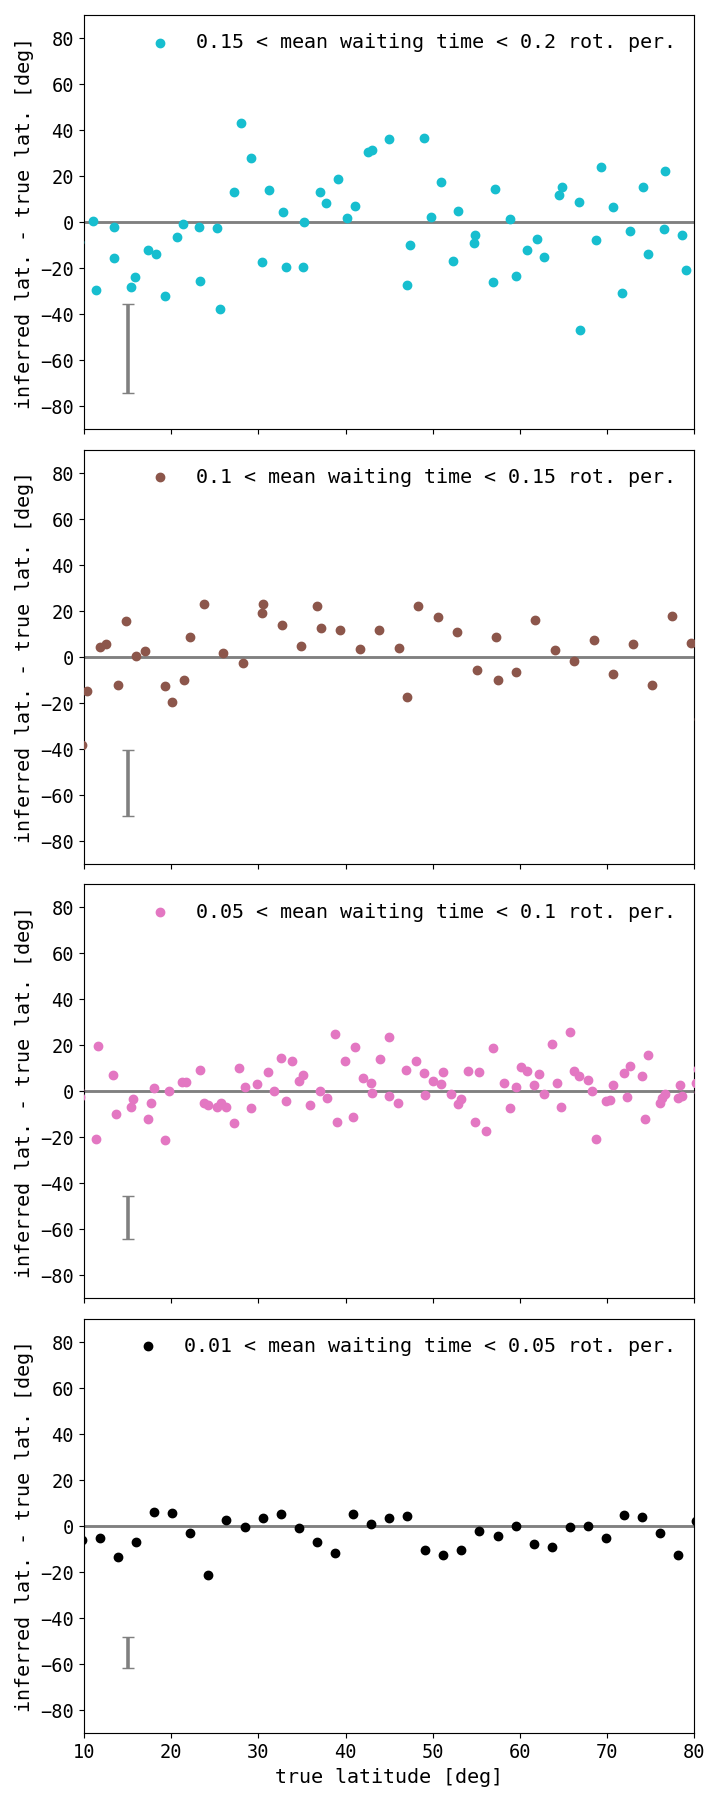
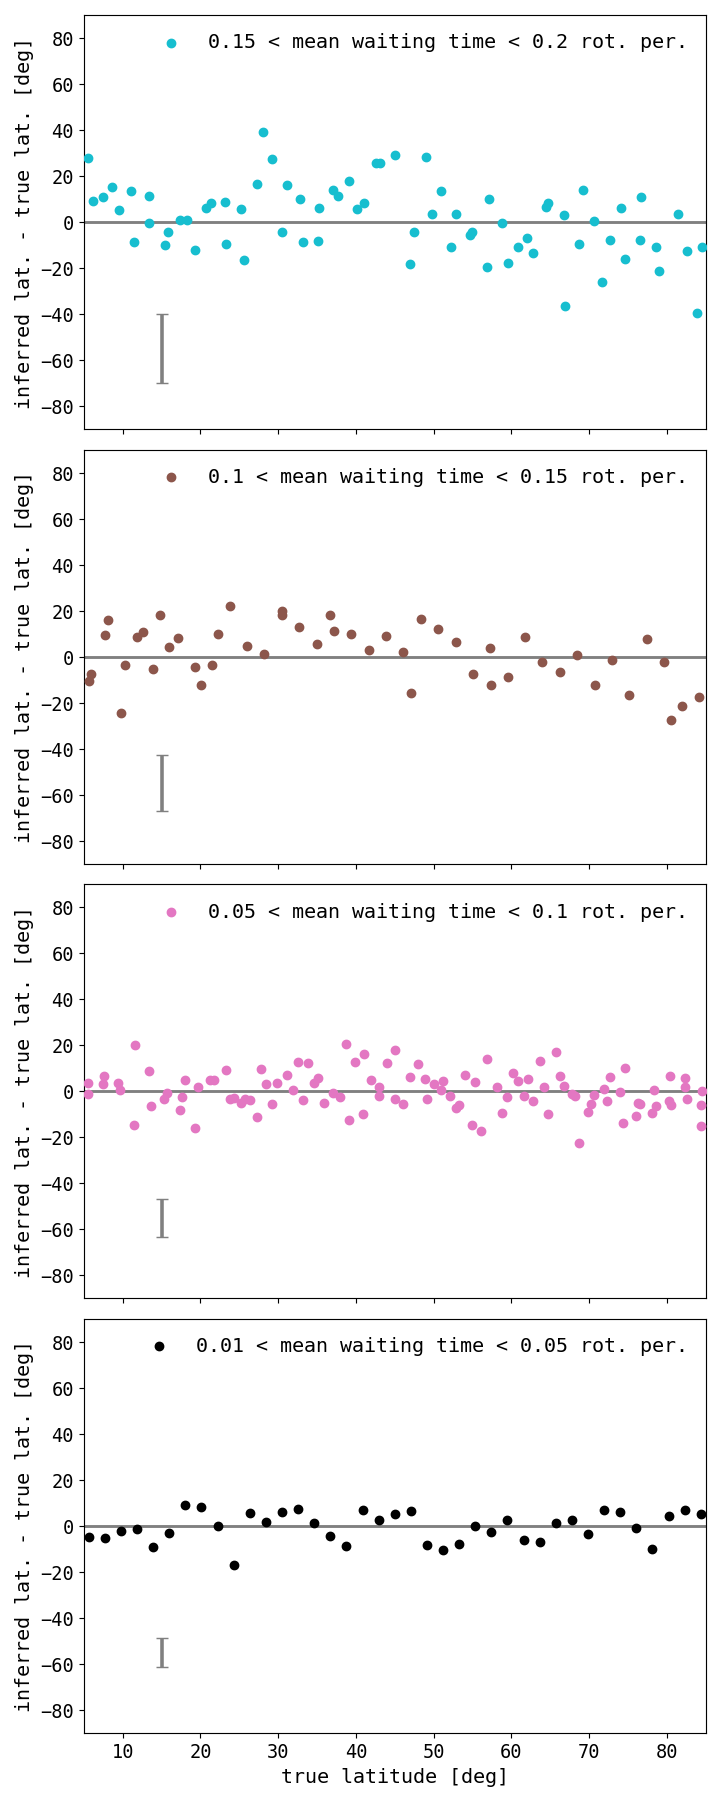
updated figures and Table 2

diff --git a/results/fit_parameters.tex b/results/fit_parameters.tex
@@ -2,10 +2,10 @@
 \hline
        & 1 FR, bi-hem. & 1-3 FR, bi-hem. & 3-5 FR, bi-hem. & 1-3 FR, mono-hem. & 3-5 FR, mono-hem. \\
 \hline
- $a_1$ &          $-1858$ &            $-2893$ &           $-16388$ &              $-6451$ &             $-15259$ \\
- $a_2$ &           $1668$ &             $3634$ &            $15398$ &               $5139$ &              $10003$ \\
- $b_1$ &             $75$ &            $-4205$ &            $-9536$ &              $-2664$ &               $4407$ \\
- $b_2$ &          $-1597$ &            $-2661$ &           $-11649$ &              $-3862$ &              $-8656$ \\
-   $c$ &             $81$ &               $45$ &              $-77$ &                 $29$ &                $-26$ \\
+ $a_1$ &   $-1922 \pm 64$ &    $-4258 \pm 168$ &   $-16200 \pm 736$ &      $-6287 \pm 196$ &     $-13523 \pm 311$ \\
+ $a_2$ &    $1606 \pm 20$ &      $3411 \pm 60$ &     $8536 \pm 269$ &        $4222 \pm 62$ &       $7356 \pm 111$ \\
+ $b_1$ &     $577 \pm 95$ &      $390 \pm 325$ &     $9997 \pm 922$ &        $911 \pm 327$ &       $9425 \pm 456$ \\
+ $b_2$ &   $-1623 \pm 25$ &     $-3023 \pm 80$ &    $-7674 \pm 273$ &       $-3564 \pm 73$ &      $-6957 \pm 121$ \\
+   $c$ &       $84 \pm 1$ &         $65 \pm 2$ &         $16 \pm 3$ &           $47 \pm 1$ &           $14 \pm 1$ \\
 \hline
 \end{tabular}

diff --git a/13_TABLE2_fit_model_to_simulation_data.py b/13_TABLE2_fit_model_to_simulation_data.py
@@ -94,10 +94,8 @@ if __name__ == "__main__":
         x = np.array([x1, x2])
         
         # x-errors guessed
-        # error on mean is 10% / number of spots
-        # error on std is 250% / sqrt(number of spots * number of hemispheres)
-        sx = np.array([x1 / 10. / dicspots[nspots],
-                       2.5 * x2 / np.sqrt(dicspots[nspots] * dicthem[hem])])
+        # error on mean and std is numerically small
+        sx = np.array([1e-7, 1e-7])
         
         # y-error same as in binning in script 12_
         sy = np.full_like(y, 2.5)
@@ -132,12 +130,7 @@ if __name__ == "__main__":
                              "ar","br","cr","dr","er"],
                             np.concatenate(([mono.color.iloc[0]],
                                              myoutput.beta,
-                                             myoutput.sd_beta))))
-        
-        # covariance matric out file
-        stri = tt.replace(" ","_").replace("-","_").replace(",","").replace(".","")
-        myoutput.cov_beta.tofile(f"results/{stri}_covmat.txt", sep=',')
-        
+                                             myoutput.sd_beta)))) 
 
 
     # save fitting data

diff --git a/15_TABLE2_csv_to_latex.py b/15_TABLE2_csv_to_latex.py
@@ -18,7 +18,7 @@ if __name__ == "__main__":
     df = pd.read_csv('results/fit_parameters.csv')
 
     # give errors optionally
-    with_errors = False
+    with_errors = True
     
     # remodel table
     df = df.drop(0,axis=0).rename(index=str,columns={"Unnamed: 0":" "})
